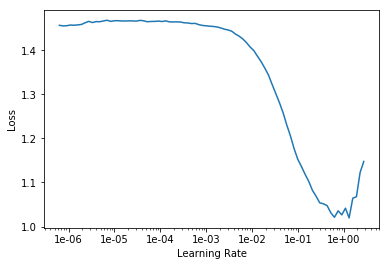
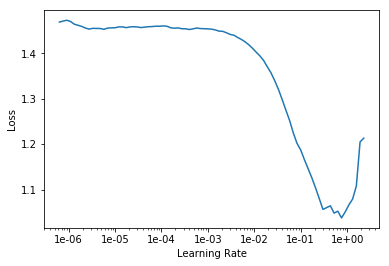
Add files via upload

diff --git a/instruClass.md b/instruClass.md
@@ -1,0 +1,255 @@
+
+
+```python
+import fastai
+from fastai import *
+from fastai.vision import *
+from fastai.tabular import *  # Quick access to tabular functionality
+from sklearn.model_selection import train_test_split
+```
+
+## Features: 20 MFCCs, 20 first-derivative of MFCCs, 5 Spectrals
+
+
+```python
+usecols_21 = ['MFCC01', 'MFCC02', 'MFCC03', 'MFCC04', 'MFCC05', 'MFCC06', 'MFCC07', 'MFCC08', 'MFCC09', 'MFCC10', 'MFCC11', 'MFCC12', 'MFCC13', 'MFCC14', 'MFCC15', 'MFCC16', 'MFCC17', 'MFCC18', 'MFCC19', 'MFCC20', 'Class']
+usecols_41 = ['MFCC01', 'MFCC02', 'MFCC03', 'MFCC04', 'MFCC05', 'MFCC06', 'MFCC07', 'MFCC08', 'MFCC09', 'MFCC10', 'MFCC11', 'MFCC12', 'MFCC13', 'MFCC14', 'MFCC15', 'MFCC16', 'MFCC17', 'MFCC18', 'MFCC19', 'MFCC20', 'MFCC_delta01', 'MFCC_delta02', 'MFCC_delta03', 'MFCC_delta04', 'MFCC_delta05', 'MFCC_delta06', 'MFCC_delta07', 'MFCC_delta08', 'MFCC_delta09', 'MFCC_delta10', 'MFCC_delta11', 'MFCC_delta12', 'MFCC_delta13', 'MFCC_delta14', 'MFCC_delta15', 'MFCC_delta16', 'MFCC_delta17', 'MFCC_delta18', 'MFCC_delta19', 'MFCC_delta20', 'Class']
+usecols_41 = ['MFCC01', 'MFCC02', 'MFCC03', 'MFCC04', 'MFCC05', 'MFCC06', 'MFCC07', 'MFCC08', 'MFCC09', 'MFCC10', 'MFCC11', 'MFCC12', 'MFCC13', 'MFCC14', 'MFCC15', 'MFCC16', 'MFCC17', 'MFCC18', 'MFCC19', 'MFCC20', 'MFCC_delta01', 'MFCC_delta02', 'MFCC_delta03', 'MFCC_delta04', 'MFCC_delta05', 'MFCC_delta06', 'MFCC_delta07', 'MFCC_delta08', 'MFCC_delta09', 'MFCC_delta10', 'MFCC_delta11', 'MFCC_delta12', 'MFCC_delta13', 'MFCC_delta14', 'MFCC_delta15', 'MFCC_delta16', 'MFCC_delta17', 'MFCC_delta18', 'MFCC_delta19', 'MFCC_delta20', 'Class']
+```
+
+
+```python
+path = '/root'
+df = pd.read_csv('/root/msec_mfcc_nonsilent.csv', usecols = usecols_41)
+train_df, valid_df = train_test_split(df)
+train_df.tail()
+```
+
+
+
+
+<div>
+<style scoped>
+    .dataframe tbody tr th:only-of-type {
+        vertical-align: middle;
+    }
+
+    .dataframe tbody tr th {
+        vertical-align: top;
+    }
+
+    .dataframe thead th {
+        text-align: right;
+    }
+</style>
+<table border="1" class="dataframe">
+  <thead>
+    <tr style="text-align: right;">
+      <th></th>
+      <th>MFCC01</th>
+      <th>MFCC02</th>
+      <th>MFCC03</th>
+      <th>MFCC04</th>
+      <th>MFCC05</th>
+      <th>MFCC06</th>
+      <th>MFCC07</th>
+      <th>MFCC08</th>
+      <th>MFCC09</th>
+      <th>MFCC10</th>
+      <th>...</th>
+      <th>MFCC_delta12</th>
+      <th>MFCC_delta13</th>
+      <th>MFCC_delta14</th>
+      <th>MFCC_delta15</th>
+      <th>MFCC_delta16</th>
+      <th>MFCC_delta17</th>
+      <th>MFCC_delta18</th>
+      <th>MFCC_delta19</th>
+      <th>MFCC_delta20</th>
+      <th>Class</th>
+    </tr>
+  </thead>
+  <tbody>
+    <tr>
+      <th>3387</th>
+      <td>-588.893281</td>
+      <td>61.872196</td>
+      <td>36.173183</td>
+      <td>12.222954</td>
+      <td>0.070097</td>
+      <td>-1.740603</td>
+      <td>-0.014241</td>
+      <td>0.568345</td>
+      <td>-1.057054</td>
+      <td>-4.374354</td>
+      <td>...</td>
+      <td>-0.096444</td>
+      <td>-0.112696</td>
+      <td>-0.148544</td>
+      <td>-0.147029</td>
+      <td>-0.114402</td>
+      <td>-0.091828</td>
+      <td>-0.084878</td>
+      <td>-0.075201</td>
+      <td>-0.063666</td>
+      <td>2</td>
+    </tr>
+    <tr>
+      <th>8510</th>
+      <td>-450.539790</td>
+      <td>171.946676</td>
+      <td>2.740914</td>
+      <td>43.658501</td>
+      <td>2.702106</td>
+      <td>-0.092322</td>
+      <td>-6.469917</td>
+      <td>-9.582212</td>
+      <td>-1.665914</td>
+      <td>-16.919125</td>
+      <td>...</td>
+      <td>-0.294263</td>
+      <td>-0.235705</td>
+      <td>-0.247688</td>
+      <td>-0.262883</td>
+      <td>0.064782</td>
+      <td>-0.001769</td>
+      <td>-0.282378</td>
+      <td>-0.249099</td>
+      <td>-0.262339</td>
+      <td>2</td>
+    </tr>
+    <tr>
+      <th>1631</th>
+      <td>-86.284791</td>
+      <td>123.796719</td>
+      <td>-15.424216</td>
+      <td>37.071017</td>
+      <td>1.780201</td>
+      <td>12.387107</td>
+      <td>-2.336179</td>
+      <td>11.731289</td>
+      <td>10.421116</td>
+      <td>14.463658</td>
+      <td>...</td>
+      <td>-0.127199</td>
+      <td>-0.104008</td>
+      <td>-0.186121</td>
+      <td>0.327396</td>
+      <td>-0.014838</td>
+      <td>0.127096</td>
+      <td>-0.158492</td>
+      <td>-0.121895</td>
+      <td>-0.037081</td>
+      <td>1</td>
+    </tr>
+    <tr>
+      <th>5990</th>
+      <td>-396.047577</td>
+      <td>195.191384</td>
+      <td>-18.154864</td>
+      <td>12.863795</td>
+      <td>-0.935496</td>
+      <td>-2.141373</td>
+      <td>10.411853</td>
+      <td>-3.263540</td>
+      <td>-4.767152</td>
+      <td>-7.187055</td>
+      <td>...</td>
+      <td>-0.179623</td>
+      <td>0.041105</td>
+      <td>0.043751</td>
+      <td>-0.143819</td>
+      <td>0.203854</td>
+      <td>-0.355674</td>
+      <td>-0.023008</td>
+      <td>0.529479</td>
+      <td>-0.046153</td>
+      <td>2</td>
+    </tr>
+    <tr>
+      <th>3754</th>
+      <td>-509.628014</td>
+      <td>204.924660</td>
+      <td>103.526238</td>
+      <td>34.753842</td>
+      <td>10.553188</td>
+      <td>7.748897</td>
+      <td>11.247462</td>
+      <td>10.753807</td>
+      <td>6.223862</td>
+      <td>2.410662</td>
+      <td>...</td>
+      <td>-0.198177</td>
+      <td>-0.536970</td>
+      <td>-0.342223</td>
+      <td>-0.111721</td>
+      <td>-0.091470</td>
+      <td>-0.214756</td>
+      <td>0.050244</td>
+      <td>0.055742</td>
+      <td>0.055125</td>
+      <td>2</td>
+    </tr>
+  </tbody>
+</table>
+<p>5 rows × 41 columns</p>
+</div>
+
+
+
+
+```python
+path = '/root'
+dep_var = 'Class'
+#cat_names = ['Class']
+data = TabularDataBunch.from_df(path, train_df, valid_df, dep_var, 
+                                tfms=[FillMissing, Categorify], cat_names=None)
+```
+
+
+```python
+learn = get_tabular_learner(data, ps=[0.5], layers=[20], metrics=accuracy)
+```
+
+
+```python
+learn.lr_find()
+learn.recorder.plot()
+```
+
+    LR Finder complete, type {learner_name}.recorder.plot() to see the graph.
+    
+
+
+![png](output_6_1.png)
+
+
+
+```python
+learn.fit(20, 0.001)
+```
+
+    Total time: 00:17
+    epoch  train_loss  valid_loss  accuracy
+    1      0.145718    0.112236    0.964727  (00:00)
+    2      0.139948    0.111541    0.964021  (00:00)
+    3      0.129767    0.108192    0.965079  (00:00)
+    4      0.123624    0.108264    0.965079  (00:00)
+    5      0.127745    0.105769    0.966490  (00:00)
+    6      0.126452    0.106486    0.965785  (00:00)
+    7      0.123618    0.107978    0.964374  (00:00)
+    8      0.130236    0.104758    0.967196  (00:00)
+    9      0.126302    0.105482    0.966138  (00:00)
+    10     0.129789    0.103588    0.966490  (00:00)
+    11     0.130023    0.103711    0.966490  (00:00)
+    12     0.118543    0.102683    0.965785  (00:00)
+    13     0.120234    0.103202    0.965785  (00:00)
+    14     0.122837    0.101986    0.966843  (00:00)
+    15     0.123732    0.102206    0.965432  (00:00)
+    16     0.126771    0.100326    0.966843  (00:00)
+    17     0.126410    0.100488    0.967196  (00:00)
+    18     0.123131    0.100546    0.965079  (00:00)
+    19     0.125713    0.101786    0.965079  (00:00)
+    20     0.118950    0.100062    0.967196  (00:00)
+    
+    
